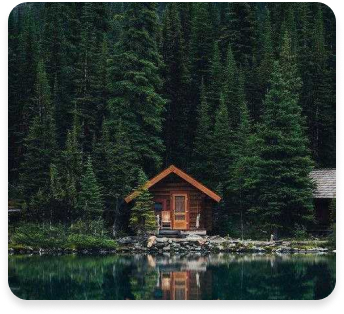
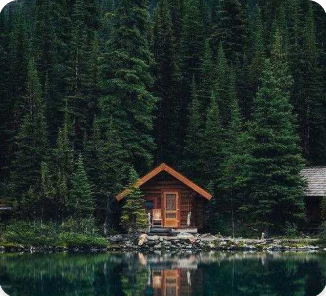
carousel upd

diff --git a/src/redux/carouselReducer.ts b/src/redux/carouselReducer.ts
@@ -9,15 +9,15 @@ const initialState: IInitialState = {
     "/images/carousel-1.png",
     "/images/carousel-2.png",
     "/images/carousel-3.png",
-    "/images/carousel-1.png",
-    "/images/carousel-2.png",
-    "/images/carousel-3.png",
-    "/images/carousel-1.png",
-    "/images/carousel-2.png",
-    "/images/carousel-3.png",
-    "/images/carousel-1.png",
-    "/images/carousel-2.png",
-    "/images/carousel-3.png",
+    "/images/carousel-4.jpg",
+    "/images/carousel-5.jpg",
+    "/images/carousel-6.jpg",
+    "/images/carousel-7.jpg",
+    "/images/carousel-8.jpg",
+    "/images/carousel-9.jpg",
+    "/images/carousel-4.jpg",
+    "/images/carousel-5.jpg",
+    "/images/carousel-6.jpg",
   ]
 }
 

diff --git a/src/modules/auth/auth-form/index.tsx b/src/modules/auth/auth-form/index.tsx
@@ -1,4 +1,4 @@
-import React from 'react';
+import React, {useEffect} from 'react';
 import {useNavigate} from "react-router-dom";
 import {Field, Form, Formik} from "formik";
 import styles from "./auth-form.module.scss";
@@ -11,6 +11,12 @@ import {authUser} from "../../../redux/authReducer";
 const AuthForm = () => {
   const navigate = useNavigate();
   const dispatch = useDispatch();
+  const email = localStorage.getItem("email");
+  const password = localStorage.getItem("password");
+
+  useEffect(() => {
+    email && password && navigate("/main")
+  }, [])
   const validateEmail = (value: string) => {
     if (!value) {
       return "Обязательное поле";

diff --git a/src/modules/main/hotels/carousel/carousel.module.scss b/src/modules/main/hotels/carousel/carousel.module.scss
@@ -19,4 +19,6 @@
 .image_item {
   width: 164px;
   height: 149px;
+  border-radius: 5px;
+  box-sizing: border-box;
 }
